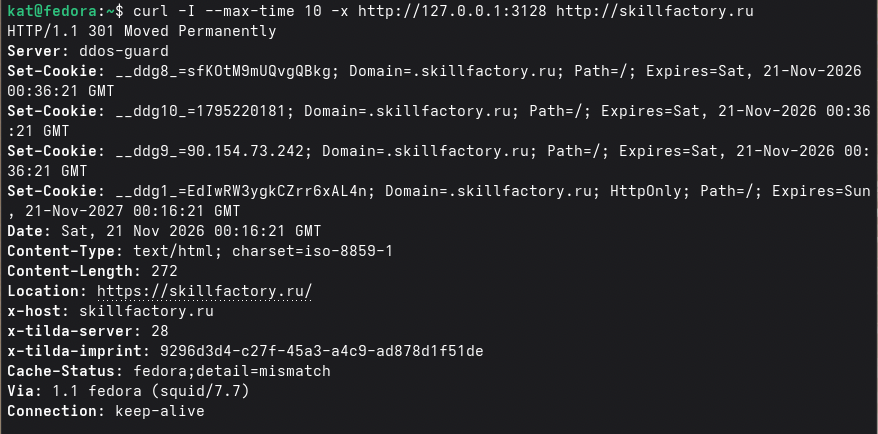
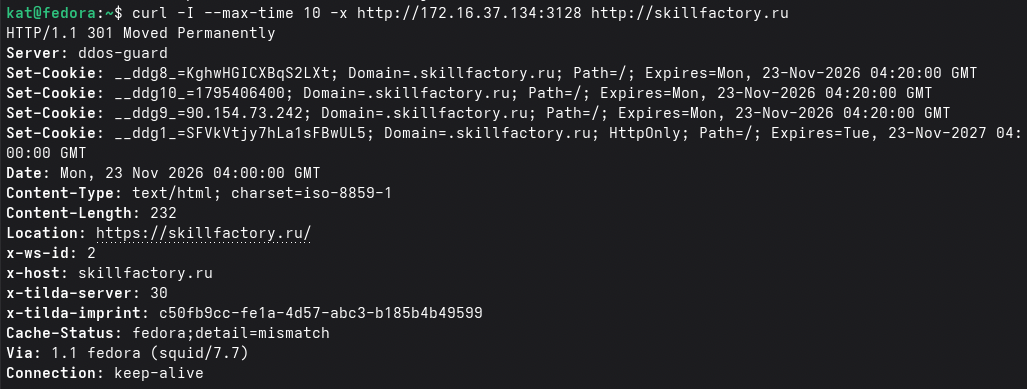
fixed iptables and squid labs

Changed region(s): [[0.0, 0.0, 1.0, 0.9871]]

diff --git a/README.md b/README.md
@@ -5,7 +5,7 @@
 | Лабораторная работа | Краткое описание | Файлы и скриншоты |
 |---|---|---|
 | [**Лабораторная работа iptables**](#лабораторная-работа-iptables) | Настройка правил фильтрации входящего трафика и ограничение доступа по IP-адресам | [Вывод iptables -L](screenshots/iptables.png) |
-| [**Лабораторная работа Squid**](#лабораторная-работа-squid) | Управление доступом к веб-сайтам с ограничением по времени | [Конфигурация](screenshots/config_check.png), [Статус службы](screenshots/squid_check.png), [Skillfactory](screenshots/skillfactory.png), [Яндекс](screenshots/yandex.png), [Gmail](screenshots/gmail.png), [Mail.ru](screenshots/mail.png) |
+| [**Лабораторная работа Squid**](#лабораторная-работа-squid) | Управление доступом к веб-сайтам с ограничением по времени | [Конфигурация](screenshots/config_check.png),![Проверка конфигурации squid parse](screenshots/squidparse.png), [Статус службы](screenshots/squid_check.png), [Skillfactory](screenshots/skillfactory.png), [Яндекс](screenshots/yandex.png), [Gmail](screenshots/gmail.png), [Mail.ru](screenshots/mail.png) |
 | [**Лабораторная работа OpenVPN**](#лабораторная-работа-openvpn) | Настройка защищённого VPN-соединения между клиентом и сервером | [Статус сервера](screenshots/openvpn-server-status.png), [Подключение клиента](screenshots/openvpn-client-connected.png), [Проверка VPN-туннеля](screenshots/openvpn-client-route-ping.png) |
   
 ---
@@ -13,25 +13,29 @@
 ## Лабораторная работа iptables  
   
 ### Задание   
-Настройте правила `iptables` для создания базового файрвола на сервере.  
-Разрешите доступ только к службам *SSH* (порт 22), *HTTP* (порт 80) и *HTTPS* (порт 443).  
-Ограничьте доступ с определенных IP-адресов к вашему серверу, и запретите весь остальной входящий трафик.  
-В качестве решения предоставьте список команд для настройки и продемонстрируйте вывод команды `iptables -L`.  
+Настройте правила `iptables` для создания базового файрвола на сервере.  Разрешите доступ только к службам *SSH* (порт 22), *HTTP* (порт 80) и *HTTPS* (порт 443).  Ограничьте доступ с определенных IP-адресов к вашему серверу, и запретите весь остальной входящий трафик.  В качестве решения предоставьте список команд для настройки и продемонстрируйте вывод команды `iptables -L`.  
   
 ### Список команд  
   
-Ограничение доступа с определенных адресов,  правило доступа к службам *SSH* (порт 22), *HTTP* (порт 80) и *HTTPS* (порт 443), запрет на входящий трафик:  
+*Дополнительно проверены текущие правила - перед основным блоком команд:*
 ```
-sudo iptables -A INPUT -s 192.168.1.10 -j DROP
-sudo iptables -A INPUT -s 192.168.1.20 -j DROP
-sudo iptables -A INPUT -p tcp --dport 22 -j ACCEPT
-sudo iptables -A INPUT -p tcp --dport 80 -j ACCEPT
-sudo iptables -A INPUT -p tcp --dport 443 -j ACCEPT
-sudo iptables -P INPUT DROP
+sudo iptables -L
 ```  
   
-***Вывод команды `iptables -L`:***  
+ ![](screenshots/iptables-first-check.png)  
   
+Ограничение доступа с определенных адресов,  правило доступа к службам *SSH* (порт 22), *HTTP* (порт 80) и *HTTPS* (порт 443), запрет на входящий трафик:  
+```
+sudo iptables -A INPUT -m conntrack --ctstate ESTABLISHED,RELATED -j ACCEPT
+sudo iptables -A INPUT -p tcp -s 192.168.1.10,192.168.1.20 -m conntrack --ctstate NEW -m tcp --dport 22 -j ACCEPT
+sudo iptables -A INPUT -p tcp -s 192.168.1.10,192.168.1.20 -m conntrack --ctstate NEW -m multiport --dports 80,443 -j ACCEPT
+sudo iptables -P INPUT DROP
+sudo iptables -L
+```  
+  
+
+### Вывод команды `iptables -L`  
+   
 ![](screenshots/iptables.png)  
   
 ---
@@ -53,18 +57,26 @@ sudo iptables -P INPUT DROP
   
 ### Список команд  
   
-Прокси сервер:  
+Прокси сервер  
 ```
-sudo dnf install squid
+sudo dnf install squid -y
 ```  
   
-Список изменений файла `/etc/squid/squid.conf`: 
+В 1 лаб. политика INPUT DROP, поэтому разр. loopback:
 ```
+sudo iptables -I INPUT 2 -i lo -j ACCEPT
+```
+  
+Список изменений файла `/etc/squid/squid.conf`:  
+```
+# Локальная сеть
+acl localnet src 172.16.37.0/24
+
+# Разрешённые ресурсы
 acl skillfactory_sites dstdomain .skillfactory.ru
 acl yandex_sites dstdomain .yandex.ru .ya.ru .yastatic.net
 acl gmail_sites dstdomain .gmail.com mail.google.com accounts.google.com .gstatic.com
 acl mailru_sites dstdomain .mail.ru
-…
 acl work_hours time MTWHFA 09:00-18:00
 …
 …
@@ -72,22 +84,31 @@ acl work_hours time MTWHFA 09:00-18:00
 …
 …
 # Skillfactory — без ограничения по времени
-http_access allow localhost skillfactory_sites
+http_access allow localnet skillfactory_sites
 
 # Яндекс — только в рабочее время
-http_access allow localhost yandex_sites work_hours
+http_access allow localnet yandex_sites work_hours
 
 # Gmail — только в рабочее время
-http_access allow localhost gmail_sites work_hours
+http_access allow localnet gmail_sites work_hours
 
 # Mail.ru — только в рабочее время
-http_access allow localhost mailru_sites work_hours
+http_access allow localnet mailru_sites work_hours
 …
 …
+
 http_access deny all
+
+```
+
+Проверка конфигурации Squid:  
+```
+sudo squid -k parse
 ```  
-   
-Перезапуск Squid, проверка службы:  
+  
+![](screenshots/squidparse.png)   
+  
+Перезапуск Squid, проверка службы  
 ```
 sudo systemctl restart squid
 sudo systemctl status squid --no-pager
@@ -101,16 +122,16 @@ sudo systemctl status squid --no-pager
   
 ***Skillfactory***  
 ```
-curl -I --max-time 10 -x http://127.0.0.1:3128 http://skillfactory.ru
+curl -I --max-time 10 -x http://172.16.37.134:3128 http://skillfactory.ru
 ```  
   
-Результат: `HTTP/1.1 301 Moved Permanently`:  
+Результат: `HTTP/1.1 301 Moved Permanently`.  
   
 ![](screenshots/skillfactory.png)  
-   
+  
 ***Яндекс***  
 ```
-curl -I -x http://127.0.0.1:3128 https://yandex.ru
+curl -I -x http://172.16.37.134:3128 https://yandex.ru
 ```  
   
 Результат - `403`:  
@@ -119,16 +140,16 @@ curl -I -x http://127.0.0.1:3128 https://yandex.ru
    
 ***Gmail***  
 ```
-curl -I -x http://127.0.0.1:3128 https://mail.google.com
+curl -I -x http://172.16.37.134:3128 https://mail.google.com
 ```  
   
  Результат - `403`:  
   
 ![](screenshots/gmail.png)  
   
-**Mail.ru**  
+***Mail.ru***  
 ```
-curl -I -x http://127.0.0.1:3128 https://mail.ru
+curl -I -x http://172.16.37.134:3128 https://mail.ru
 ```  
   
 Результат - `403`:  
@@ -136,8 +157,6 @@ curl -I -x http://127.0.0.1:3128 https://mail.ru
 ![](screenshots/mail.png)  
     
 P.S. проверка проводилась вне разрешенного времени - поэтому 403 ожидаемо у Яндекс, Gmail, Mail.ru.  
-  
----
   
 ## Лабораторная работа OpenVPN  
   
@@ -178,7 +197,7 @@ cd $HOME/openvpn-pki
 ./easyrsa build-ca
 ```  
   
-**Common Name CA: `Fedora-VPN-CA`**  
+Common Name CA: `Fedora-VPN-CA`.  
   
 Сгенерирован и подписан сертификат сервера:  
 ```
@@ -197,7 +216,7 @@ cd $HOME/openvpn-pki
 openvpn --genkey tls-crypt tls-crypt.key
 ```  
   
-Создан сис.каталог, скопированы сертификаты, ключи:  
+Создан сис.каталог, скопированы сертификаты, ключи.  
 ```
 sudo install -d -m 700 /etc/openvpn/server
 
@@ -308,7 +327,7 @@ sudo iptables -A INPUT -i tun0 -s 10.8.0.0/24 -p icmp -j ACCEPT
 sudo iptables -L INPUT -n -v
 ```  
   
-Запуск OpenVPN-сервера (Fedora):  
+Запуск OpenVPN-сервера (Fedora)  
 ```
 sudo systemctl start openvpn-server@server
 ```  
@@ -341,7 +360,7 @@ sudo openvpn --config $HOME/kali-client.ovpn
    
 ![](screenshots/openvpn-client-connected.png)  
   
-Алгоритм шифрования: `AES-256-GCM` 
+Алгоритм шифрования: `AES-256-GCM`. 
   
 Сетевые интерфейсы на Кали, маршрут через VPN-server, передача пакетов через Vpn-tun:
 ```
@@ -354,5 +373,4 @@ ping -c 4 10.8.0.1
   
 ![](screenshots/openvpn-client-route-ping.png)  
   
-**P.S. Имя `mac-client` изначально создавалось, потому как macOS планировалась использоваться как клиент.  
-По итогу оставила это имя, а клиент в итоге стал Kali.**
+**P.S. Имя `mac-client` изначально создавалось, потому как macOS планировалась использоваться как клиент.По итогу оставила это имя, а клиент в итоге стал Kali.**  
